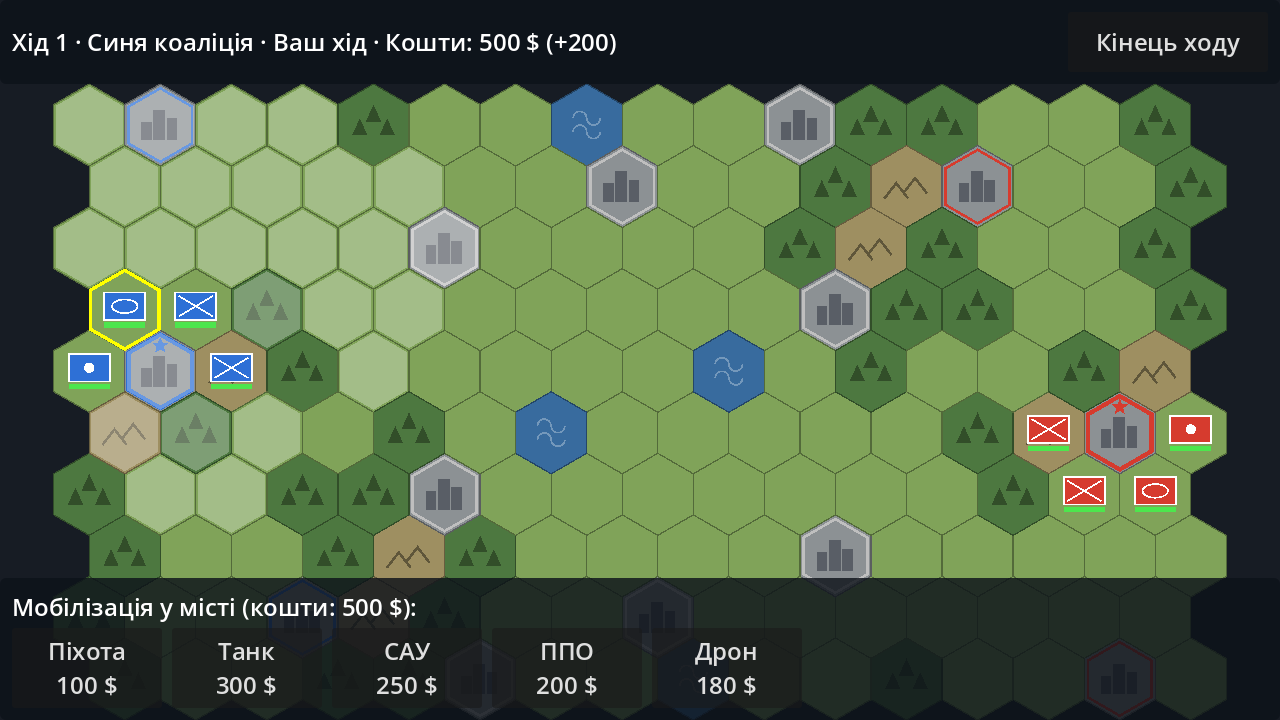
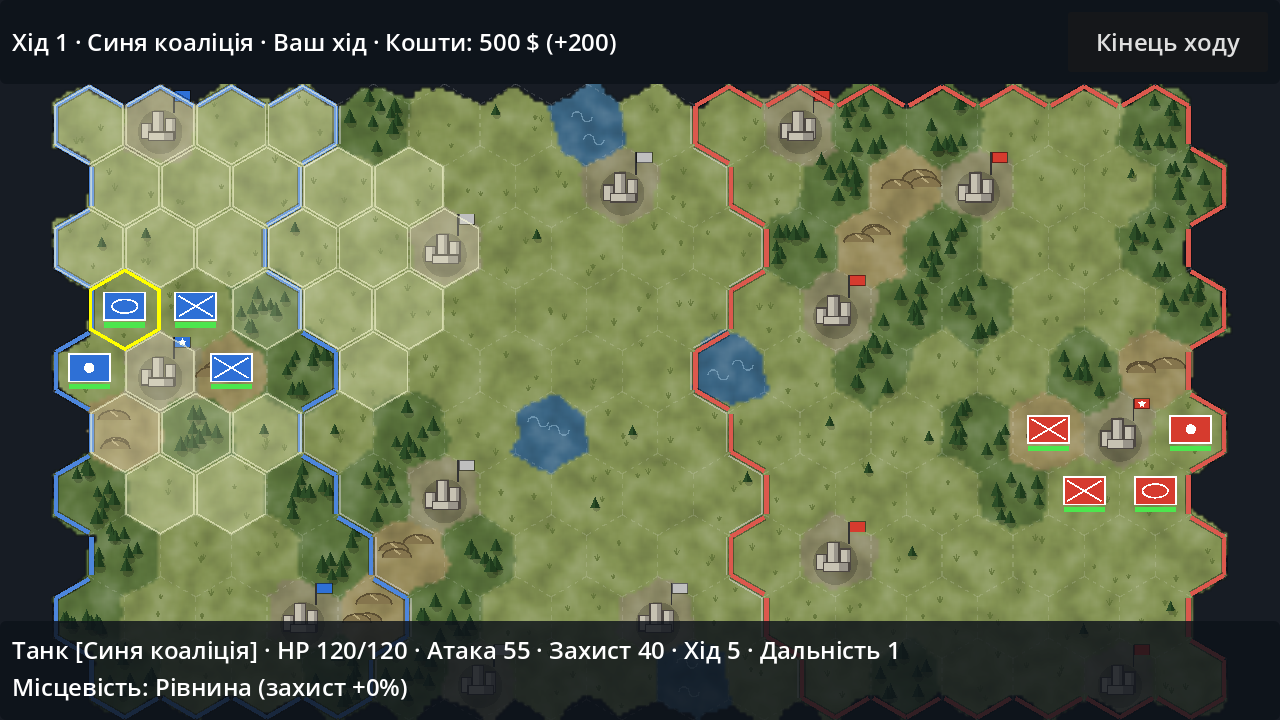
Render the map as painted terrain with faint grid and territory borders
Hexes stay as the gameplay grid, but the map is now drawn EW7-style: a
continuous ground texture with noise-warped terrain edges, scattered
trees/hills/grass, faint dashed hex lines, and coloured borders around
each side's territory (hexes belong to the nearest city's owner, so
borders move when cities are captured). Map drawing moves to map_view.gd.

Claude-Session: https://claude.ai/code/session_01DGzcrkN7G6Q8ozASAUm8BS

diff --git a/README.md b/README.md
@@ -7,7 +7,8 @@
 
 ## Поточний стан — крок 2: прототип + автоматична збірка APK
 
-- Гексагональна карта (симетрична для чесної гри): рівнини, ліси, пагорби, вода, міста.
+- Карта в стилі European War 7: суцільна мальована місцевість, ледь помітна пунктирна сітка
+  та кольорові кордони територій (симетрична для чесної гри): рівнини, ліси, пагорби, вода, міста.
 - 5 юнітів: **Піхота, Танк, САУ, ППО, Дрон** (позначки у стилі тактичних знаків НАТО).
 - Рух з урахуванням місцевості, зона контролю противника, бій з контратакою, захист від місцевості.
 - Захоплення міст → дохід, мобілізація нових військ у своїх містах, лікування в містах.
@@ -57,6 +58,7 @@ godot --headless --path . -- --autotest
 - `scripts/hex.gd` — математика гексагональної сітки
 - `scripts/rules.gd` — характеристики місцевості та юнітів (баланс)
 - `scripts/unit.gd` — стан юніта
-- `scripts/game.gd` — логіка гри, ввід, малювання
+- `scripts/game.gd` — логіка гри, ввід, малювання юнітів
+- `scripts/map_view.gd` — малювання карти: місцевість, сітка, кордони, міста
 - `scripts/enemy_ai.gd` — штучний інтелект
 - `scripts/hud.gd` — інтерфейс
